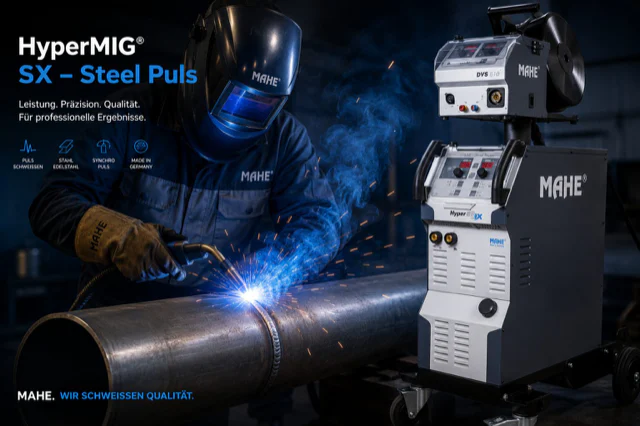
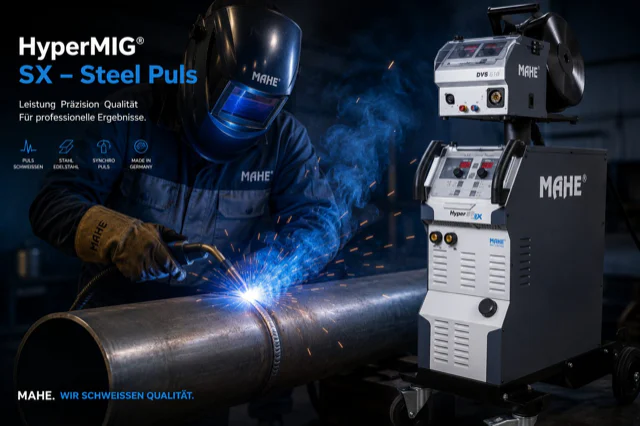
Punkte aus "Leistung. Praezision. Qualitaet." entfernt
Der Inhaber findet die Punkte zwischen den drei Woertern unschoen. Sie
sind Teil des Bildes, nicht des HTML, also mussten sie aus der Vorlage
heraus.

Entfernt wurden genau drei Zeichen, alle auf der Grundlinie bei y 255
bis 257: x 133-139, 238-244 und 332-337. Die Punkte ueber den beiden i
und die Umlautpunkte ueber dem ae liegen bei y 241 bis 243 und sind
unberuehrt geblieben - deshalb wurden die Kaesten nicht geschaetzt,
sondern ueber die zusammenhaengenden hellen Flaechen der Zeile
bestimmt und vorher geprueft, dass ringsum nur Hintergrund liegt.

Gefuellt wurde mit einem Streifen desselben Hintergrunds acht Zeilen
tiefer, damit Koernung und Farbverlauf stimmen; der hellste Wert in
den drei Kaesten faellt von 253, 252 und 248 auf 14, 25 und 16. Die
Luecke betraegt jetzt an beiden Stellen 14 bzw. 15 px gegenueber 7 bis
8 px zwischen gewoehnlichen Woertern - die Zeile liest sich damit als
bewusst gesperrte Aufzaehlung und nicht als vergessene Zeichensetzung.

Dazu eine Sache am Werkzeug: hero.py kodierte den JPEG-Rueckfall mit
sips und formatOptions 88. Aus derselben Vorlage wurden so 364 kB. Mit
Pillow bei Qualitaet 82, progressiv und optimiert sind es 209 kB - und
das Ergebnis liegt naeher am Original statt weiter weg, PSNR 52.7
gegenueber 49.8 dB. Die Vorlage kommt selbst aus einem JPEG, und
Qualitaet 82 trifft deren Quantisierungstabelle fast genau.

Die verlustfreie Vorlage liegt unter
~/Documents/VES-TECH Backup/5-bilder/hero-HyperMIG-ohne-Punkte.png,
[…]

diff --git a/fr/index.html b/fr/index.html
@@ -46,7 +46,7 @@
 <link rel="preload" as="font" type="font/woff2" crossorigin href="/assets/fonts/barlow-condensed-700-latin.woff2">
 <link rel="stylesheet" href="/assets/fonts/fonts.css?v=c280491e">
 <link rel="stylesheet" href="/assets/css/site.css?v=721b5a12">
-<link rel="preload" as="image" href="/assets/img/hero-1536.webp?v=4fab8153" imagesrcset="/assets/img/hero-640.webp?v=7de5f3d2 640w, /assets/img/hero-1000.webp?v=fa3d0fe1 1000w, /assets/img/hero-1536.webp?v=4fab8153 1536w" imagesizes="100vw" fetchpriority="high">
+<link rel="preload" as="image" href="/assets/img/hero-1536.webp?v=39bf6408" imagesrcset="/assets/img/hero-640.webp?v=83ac61d8 640w, /assets/img/hero-1000.webp?v=69524643 1000w, /assets/img/hero-1536.webp?v=39bf6408 1536w" imagesizes="100vw" fetchpriority="high">
 <script type="application/ld+json">{"@context":"https://schema.org","@graph":[{"@type":["Organization","LocalBusiness","Store"],"@id":"https://www.ves-tech.ch/#organization","name":"VES-TECH Swiss","legalName":"VES-TECH Swiss","description":"VES-TECH Swiss est le revendeur suisse de la technique de soudage et de découpe de MAHE GmbH : postes à souder MIG/MAG, TIG et électrode, installations de découpe plasma, tables de découpe CNC et appareils de nettoyage et de marquage électrolytiques. Avec conseil, mise en service, diagnostic, réparation, calibrage et automation du soudage. Atelier et réception des marchandises à Herisau AR chez l'entreprise partenaire Schweisstechnik Scherrer AG; siège et adresse de facturation à Bronschhofen SG. Livraison en Suisse et au Liechtenstein.","url":"https://www.ves-tech.ch/","logo":{"@type":"ImageObject","url":"https://www.ves-tech.ch/assets/icons/logo.png","width":512,"height":512},"image":"https://www.ves-tech.ch/assets/img/hero.jpg","telephone":"+41 76 710 91 39","email":"vestechswiss@gmail.com","address":{"@type":"PostalAddress","streetAddress":"St. Gallerstrasse 49","postalCode":"9100","addressLocality":"Herisau","addressRegion":"AR","addressCountry":"CH"},"geo":{"@type":"GeoCoordinates","latitude":47.3861,"longitude":9.2792},"areaServed":[{"@type":"Country","name":"Schweiz"},{"@type":"Country","name":"Liechtenstein"}],"knowsLanguage":["de","cs","en"],"currenciesAccepted":"CHF","hasMap":"https://www.google.com/maps/search/?api=1&query=St.+Gallerstrasse+49,+9100+Herisau","brand":{"@type":"Brand","name":"MAHE","url":"https://mahe-online.de/"},"founder":{"@type":"Person","name":"Martin Veselovsky"},"slogan":"Offizieller Schweizer Partner für das MAHE-Geräteprogramm.","knowsAbout":["MIG/MAG-Schweissen","WIG/TIG-Schweissen","MMA-Elektrodenschweissen","Plasmaschneiden","Elektrolytische Schweissnahtreinigung","Schweissautomation","EN 1090","MAHE Schweissgeräte"],"contactPoint":[{"@type":"ContactPoint","contactType":"sales","telephone":"+41 76 710 91 39","email":"vestechswiss@gmail.com","availableLanguage":["German","Czech","English"],"areaServed":["CH","LI"],"hoursAvailable":[{"@type":"OpeningHoursSpecification","dayOfWeek":["Monday","Tuesday","Wednesday","Thursday"],"opens":"07:30","closes":"17:00"},{"@type":"OpeningHoursSpecification","dayOfWeek":["Friday"],"opens":"07:30","closes":"11:30"}]}]},{"@type":"WebSite","@id":"https://www.ves-tech.ch/#website","url":"https://www.ves-tech.ch/","name":"VES-TECH Swiss","description":"Postes de soudage MAHE, découpeurs plasma et systèmes de nettoyage électrolytique en Suisse. Conseil, service et automation depuis Herisau AR. Prix sur demande.","inLanguage":["de-CH","fr-CH","it-CH"],"publisher":{"@id":"https://www.ves-tech.ch/#organization"},"potentialAction":{"@type":"SearchAction","target":{"@type":"EntryPoint","urlTemplate":"https://www.ves-tech.ch/fr/recherche/?q={search_term_string}"},"query-input":"required name=search_term_string"}},{"@type":["WebPage","CollectionPage"],"@id":"https://www.ves-tech.ch/fr/#webpage","url":"https://www.ves-tech.ch/fr/","name":"VES-TECH Swiss · Postes de soudage MAHE, plasma & nettoyage","description":"Postes de soudage MAHE, découpeurs plasma et systèmes de nettoyage électrolytique en Suisse. Conseil, service et automation depuis Herisau AR. Prix sur demande.","inLanguage":"fr-CH","isPartOf":{"@id":"https://www.ves-tech.ch/#website"},"about":{"@id":"https://www.ves-tech.ch/#organization"},"primaryImageOfPage":{"@type":"ImageObject","url":"https://www.ves-tech.ch/assets/img/hero.jpg"}},{"@type":"FAQPage","@id":"https://www.ves-tech.ch/fr/#faq","inLanguage":"fr-CH","mainEntity":[{"@type":"Question","name":"Combien coûte un poste de soudage MAHE chez VES-TECH Swiss ?","acceptedAnswer":{"@type":"Answer","text":"Tous les appareils MAHE sont proposés au prix sur demande chez VES-TECH Swiss. La raison : chaque installation est configurée selon le matériau, l'épaisseur de tôle, le refroidissement (air ou eau), la longueur de torche et les accessoires. Vous recevez en règle générale une offre écrite dans un jour ouvrable, service suisse et gestion de la garantie inclus."}},{"@type":"Question","name":"Quel procédé de soudage pour l'aluminium ?","acceptedAnswer":{"@type":"Answer","text":"Deux voies conviennent pour l'aluminium : le TIG AC/DC (par ex. MAHE HyperTIG AX ou Omega AX) pour les tôles fines et les cordons visibles, et le MIG/MAG avec pulsation ou double pulsation (par ex. MAHE HyperMIG X) pour un taux de dépôt élevé à partir d'environ 2 mm. Le TIG DC pur ne convient pas à l'aluminium, car la couche d'oxyde nécessite l'effet décapant du courant alternatif."}},{"@type":"Question","name":"Quelle est la différence entre TIG DC et TIG AC/DC ?","acceptedAnswer":{"@type":"Answer","text":"Le TIG DC soude en courant continu et convient à l'acier, l'acier inox, le cuivre et le titane. Le TIG AC/DC travaille en plus en courant alternatif et brise ainsi la couche d'oxyde d'aluminium. C'est la seule façon de souder proprement l'aluminium en TIG. Les appareils AC/DC sont donc le choix universel, les DC le choix économique."}},{"@type":"Question","name":"Comment fonctionne le nettoyage électrolytique des soudures ?","acceptedAnswer":{"@type":"Answer","text":"Un MAHE Cleaner conduit le courant dans le cordon via un pinceau carbone imbibé d'électrolyte. Les colorations et la couche d'oxyde sur l'acier inox sont éliminées par voie électrochimique et la couche passive se reconstitue. Selon l'électrolyte, on nettoie (R1, RP1), polit (P1), neutralise (N1) ou marque durablement le métal (M1). C'est plus rapide et plus doux que le décapage, sans bain d'acide."}},{"@type":"Question","name":"Quelle épaisseur coupe un découpeur plasma MAHE Theta ?","acceptedAnswer":{"@type":"Answer","text":"La série Theta couvre environ 15 mm à 80 mm de coupe de séparation : Theta 40 pour l'atelier léger sur réseau 230 V, Theta 60 et Theta 120 pour l'usage industriel avec technologie HSC, et Theta 180 comme modèle le plus puissant. Pour les installations CNC, il existe les Theta 60 AUT et Theta 120 AUT avec interface d'automation."}},{"@type":"Question","name":"VES-TECH Swiss propose-t-il service et réparation en Suisse ?","acceptedAnswer":{"@type":"Answer","text":"Oui. L'atelier à Herisau AR, chez notre entreprise partenaire Schweisstechnik Scherrer AG, assure le diagnostic, la réparation, le calibrage et l'automation pour la gamme MAHE. Vous parlez directement au technicien qui travaille aussi sur l'électronique, joignable au +41 76 710 91 39."}}]}]}</script>
 </head>
 <body>
@@ -107,7 +107,7 @@
 </aside>
 <main id="main">
 
-<section class="hero" data-hero aria-roledescription="carousel" aria-label="VES-TECH Swiss"><div class="hero-slide active" role="group" aria-roledescription="slide" aria-label="Image 1 sur 2"><div class="hero-inner"><img class="hero-photo" src="/assets/img/hero-1536.webp?v=4fab8153" srcset="/assets/img/hero-640.webp?v=7de5f3d2 640w, /assets/img/hero-1000.webp?v=fa3d0fe1 1000w, /assets/img/hero-1536.webp?v=4fab8153 1536w" sizes="100vw" width="1536" height="1024" fetchpriority="high" decoding="async" alt="MAHE HyperMIG SX: Schweissanlagen bei VES-TECH Swiss" data-fb="/assets/img/hero.jpg"></div></div><div class="hero-slide light" role="group" aria-roledescription="slide" aria-label="Image 2 sur 2"><div class="hero-inner"><img class="hero-photo" src="/assets/img/hero-mpt-1536.webp?v=80cf9e4e" srcset="/assets/img/hero-mpt-640.webp?v=1ca108ae 640w, /assets/img/hero-mpt-1000.webp?v=b12000d8 1000w, /assets/img/hero-mpt-1536.webp?v=80cf9e4e 1536w" sizes="100vw" width="1672" height="941" loading="eager" fetchpriority="low" decoding="async" alt="MAHE MPT: CNC-Plasmaschneidtisch mit Bedienkonsole" data-fb="/assets/img/hero-mpt.jpg"><div class="hero-txt"><span class="hk">Nouveau dans la gamme</span><h2>MAHE MPT · table de découpe plasma CNC</h2><p>3000 × 1500 mm ou 2500 × 1250 mm · Theta 060 / 120 / 180 HSC · MyPlasm CNC</p><a class="btn pri" href="/fr/produits/decoupe-plasma/mpt-3001/">Voir la table de découpe</a></div></div></div><div class="hero-dots" role="tablist" aria-label="Autres images"><button class="hdot active" type="button" role="tab" aria-selected="true" data-i="0" aria-label="Image 1 sur 2"></button><button class="hdot" type="button" role="tab" aria-selected="false" data-i="1" aria-label="Image 2 sur 2"></button></div></section>
+<section class="hero" data-hero aria-roledescription="carousel" aria-label="VES-TECH Swiss"><div class="hero-slide active" role="group" aria-roledescription="slide" aria-label="Image 1 sur 2"><div class="hero-inner"><img class="hero-photo" src="/assets/img/hero-1536.webp?v=39bf6408" srcset="/assets/img/hero-640.webp?v=83ac61d8 640w, /assets/img/hero-1000.webp?v=69524643 1000w, /assets/img/hero-1536.webp?v=39bf6408 1536w" sizes="100vw" width="1536" height="1024" fetchpriority="high" decoding="async" alt="MAHE HyperMIG SX: Schweissanlagen bei VES-TECH Swiss" data-fb="/assets/img/hero.jpg"></div></div><div class="hero-slide light" role="group" aria-roledescription="slide" aria-label="Image 2 sur 2"><div class="hero-inner"><img class="hero-photo" src="/assets/img/hero-mpt-1536.webp?v=80cf9e4e" srcset="/assets/img/hero-mpt-640.webp?v=1ca108ae 640w, /assets/img/hero-mpt-1000.webp?v=b12000d8 1000w, /assets/img/hero-mpt-1536.webp?v=80cf9e4e 1536w" sizes="100vw" width="1672" height="941" loading="eager" fetchpriority="low" decoding="async" alt="MAHE MPT: CNC-Plasmaschneidtisch mit Bedienkonsole" data-fb="/assets/img/hero-mpt.jpg"><div class="hero-txt"><span class="hk">Nouveau dans la gamme</span><h2>MAHE MPT · table de découpe plasma CNC</h2><p>3000 × 1500 mm ou 2500 × 1250 mm · Theta 060 / 120 / 180 HSC · MyPlasm CNC</p><a class="btn pri" href="/fr/produits/decoupe-plasma/mpt-3001/">Voir la table de découpe</a></div></div></div><div class="hero-dots" role="tablist" aria-label="Autres images"><button class="hdot active" type="button" role="tab" aria-selected="true" data-i="0" aria-label="Image 1 sur 2"></button><button class="hdot" type="button" role="tab" aria-selected="false" data-i="1" aria-label="Image 2 sur 2"></button></div></section>
 <div class="hero-cta"><div class="wrap"><div class="cta-row">
   <a class="btn pri" href="/fr/contact/">Demander un technicien →</a>
   <a class="btn ghost light" href="/fr/produits/">Voir les systèmes MAHE</a>

diff --git a/it/index.html b/it/index.html
@@ -46,7 +46,7 @@
 <link rel="preload" as="font" type="font/woff2" crossorigin href="/assets/fonts/barlow-condensed-700-latin.woff2">
 <link rel="stylesheet" href="/assets/fonts/fonts.css?v=c280491e">
 <link rel="stylesheet" href="/assets/css/site.css?v=721b5a12">
-<link rel="preload" as="image" href="/assets/img/hero-1536.webp?v=4fab8153" imagesrcset="/assets/img/hero-640.webp?v=7de5f3d2 640w, /assets/img/hero-1000.webp?v=fa3d0fe1 1000w, /assets/img/hero-1536.webp?v=4fab8153 1536w" imagesizes="100vw" fetchpriority="high">
+<link rel="preload" as="image" href="/assets/img/hero-1536.webp?v=39bf6408" imagesrcset="/assets/img/hero-640.webp?v=83ac61d8 640w, /assets/img/hero-1000.webp?v=69524643 1000w, /assets/img/hero-1536.webp?v=39bf6408 1536w" imagesizes="100vw" fetchpriority="high">
 <script type="application/ld+json">{"@context":"https://schema.org","@graph":[{"@type":["Organization","LocalBusiness","Store"],"@id":"https://www.ves-tech.ch/#organization","name":"VES-TECH Swiss","legalName":"VES-TECH Swiss","description":"VES-TECH Swiss è il rivenditore svizzero della tecnica di saldatura e di taglio di MAHE GmbH: saldatrici MIG/MAG, TIG ed elettrodo, impianti di taglio al plasma, tavoli di taglio CNC e apparecchi elettrolitici di pulitura e marcatura. Con consulenza, messa in servizio, diagnosi, riparazione, calibrazione e automazione della saldatura. Officina e accettazione merci a Herisau AR presso l'azienda partner Schweisstechnik Scherrer AG; sede e indirizzo di fatturazione a Bronschhofen SG. Consegna in Svizzera e nel Liechtenstein.","url":"https://www.ves-tech.ch/","logo":{"@type":"ImageObject","url":"https://www.ves-tech.ch/assets/icons/logo.png","width":512,"height":512},"image":"https://www.ves-tech.ch/assets/img/hero.jpg","telephone":"+41 76 710 91 39","email":"vestechswiss@gmail.com","address":{"@type":"PostalAddress","streetAddress":"St. Gallerstrasse 49","postalCode":"9100","addressLocality":"Herisau","addressRegion":"AR","addressCountry":"CH"},"geo":{"@type":"GeoCoordinates","latitude":47.3861,"longitude":9.2792},"areaServed":[{"@type":"Country","name":"Schweiz"},{"@type":"Country","name":"Liechtenstein"}],"knowsLanguage":["de","cs","en"],"currenciesAccepted":"CHF","hasMap":"https://www.google.com/maps/search/?api=1&query=St.+Gallerstrasse+49,+9100+Herisau","brand":{"@type":"Brand","name":"MAHE","url":"https://mahe-online.de/"},"founder":{"@type":"Person","name":"Martin Veselovsky"},"slogan":"Offizieller Schweizer Partner für das MAHE-Geräteprogramm.","knowsAbout":["MIG/MAG-Schweissen","WIG/TIG-Schweissen","MMA-Elektrodenschweissen","Plasmaschneiden","Elektrolytische Schweissnahtreinigung","Schweissautomation","EN 1090","MAHE Schweissgeräte"],"contactPoint":[{"@type":"ContactPoint","contactType":"sales","telephone":"+41 76 710 91 39","email":"vestechswiss@gmail.com","availableLanguage":["German","Czech","English"],"areaServed":["CH","LI"],"hoursAvailable":[{"@type":"OpeningHoursSpecification","dayOfWeek":["Monday","Tuesday","Wednesday","Thursday"],"opens":"07:30","closes":"17:00"},{"@type":"OpeningHoursSpecification","dayOfWeek":["Friday"],"opens":"07:30","closes":"11:30"}]}]},{"@type":"WebSite","@id":"https://www.ves-tech.ch/#website","url":"https://www.ves-tech.ch/","name":"VES-TECH Swiss","description":"Saldatrici MAHE, inverter per taglio al plasma e pulizia elettrolitica in Svizzera. Consulenza, assistenza e automazione da Herisau AR. Prezzo su richiesta.","inLanguage":["de-CH","fr-CH","it-CH"],"publisher":{"@id":"https://www.ves-tech.ch/#organization"},"potentialAction":{"@type":"SearchAction","target":{"@type":"EntryPoint","urlTemplate":"https://www.ves-tech.ch/it/ricerca/?q={search_term_string}"},"query-input":"required name=search_term_string"}},{"@type":["WebPage","CollectionPage"],"@id":"https://www.ves-tech.ch/it/#webpage","url":"https://www.ves-tech.ch/it/","name":"VES-TECH Swiss · Saldatrici MAHE, plasma & pulizia","description":"Saldatrici MAHE, inverter per taglio al plasma e pulizia elettrolitica in Svizzera. Consulenza, assistenza e automazione da Herisau AR. Prezzo su richiesta.","inLanguage":"it-CH","isPartOf":{"@id":"https://www.ves-tech.ch/#website"},"about":{"@id":"https://www.ves-tech.ch/#organization"},"primaryImageOfPage":{"@type":"ImageObject","url":"https://www.ves-tech.ch/assets/img/hero.jpg"}},{"@type":"FAQPage","@id":"https://www.ves-tech.ch/it/#faq","inLanguage":"it-CH","mainEntity":[{"@type":"Question","name":"Quanto costa una saldatrice MAHE da VES-TECH Swiss?","acceptedAnswer":{"@type":"Answer","text":"Tutti gli apparecchi MAHE sono offerti da VES-TECH Swiss al prezzo su richiesta. Il motivo: ogni impianto viene configurato in base a materiale, spessore della lamiera, raffreddamento (aria o acqua), lunghezza della torcia e accessori. Di norma ricevete un'offerta scritta entro un giorno lavorativo, inclusa assistenza svizzera e gestione della garanzia."}},{"@type":"Question","name":"Quale processo di saldatura serve per l'alluminio?","acceptedAnswer":{"@type":"Answer","text":"Per l'alluminio ci sono due vie: TIG AC/DC (ad es. MAHE HyperTIG AX o Omega AX) per lamiere sottili e cordoni a vista, e MIG/MAG con impulso o doppio impulso (ad es. MAHE HyperMIG X) per una resa maggiore a partire da circa 2 mm. Il TIG DC puro non è adatto all'alluminio, perché lo strato di ossido richiede l'effetto decapante della corrente alternata."}},{"@type":"Question","name":"Qual è la differenza tra TIG DC e TIG AC/DC?","acceptedAnswer":{"@type":"Answer","text":"Il TIG DC salda in corrente continua ed è adatto ad acciaio, acciaio inox, rame e titanio. Il TIG AC/DC lavora anche in corrente alternata e rompe così lo strato di ossido dell'alluminio. Solo così l'alluminio si salda in TIG in modo pulito. Gli apparecchi AC/DC sono quindi la scelta universale, quelli DC la scelta più economica."}},{"@type":"Question","name":"Come funziona la pulizia elettrolitica delle saldature?","acceptedAnswer":{"@type":"Answer","text":"Un MAHE Cleaner conduce corrente nel cordone tramite un pennello di carbonio imbevuto di elettrolita. Le colorazioni da calore e lo strato di ossido sull'acciaio inox vengono rimossi per via elettrochimica e lo strato passivo si ricostituisce. A seconda dell'elettrolita si pulisce (R1, RP1), si lucida (P1), si neutralizza (N1) o si marca il metallo in modo permanente (M1). È più rapido e delicato del decapaggio, senza bagno acido."}},{"@type":"Question","name":"Quale spessore taglia un inverter plasma MAHE Theta?","acceptedAnswer":{"@type":"Answer","text":"La serie Theta copre da circa 15 mm a 80 mm di taglio di separazione: Theta 40 per l'officina leggera su rete 230 V, Theta 60 e Theta 120 per l'impiego industriale con tecnologia HSC e Theta 180 come modello più potente. Per impianti CNC esistono Theta 60 AUT e Theta 120 AUT con interfaccia di automazione."}},{"@type":"Question","name":"VES-TECH Swiss offre assistenza e riparazione in Svizzera?","acceptedAnswer":{"@type":"Answer","text":"Sì. L'officina a Herisau AR, presso la nostra azienda partner Schweisstechnik Scherrer AG, si occupa di diagnosi, riparazione, calibrazione e automazione per la gamma MAHE. Parlate direttamente con il tecnico che lavora anche sull'elettronica, raggiungibile al +41 76 710 91 39."}}]}]}</script>
 </head>
 <body>
@@ -107,7 +107,7 @@
 </aside>
 <main id="main">
 
-<section class="hero" data-hero aria-roledescription="carousel" aria-label="VES-TECH Swiss"><div class="hero-slide active" role="group" aria-roledescription="slide" aria-label="Immagine 1 di 2"><div class="hero-inner"><img class="hero-photo" src="/assets/img/hero-1536.webp?v=4fab8153" srcset="/assets/img/hero-640.webp?v=7de5f3d2 640w, /assets/img/hero-1000.webp?v=fa3d0fe1 1000w, /assets/img/hero-1536.webp?v=4fab8153 1536w" sizes="100vw" width="1536" height="1024" fetchpriority="high" decoding="async" alt="MAHE HyperMIG SX: Schweissanlagen bei VES-TECH Swiss" data-fb="/assets/img/hero.jpg"></div></div><div class="hero-slide light" role="group" aria-roledescription="slide" aria-label="Immagine 2 di 2"><div class="hero-inner"><img class="hero-photo" src="/assets/img/hero-mpt-1536.webp?v=80cf9e4e" srcset="/assets/img/hero-mpt-640.webp?v=1ca108ae 640w, /assets/img/hero-mpt-1000.webp?v=b12000d8 1000w, /assets/img/hero-mpt-1536.webp?v=80cf9e4e 1536w" sizes="100vw" width="1672" height="941" loading="eager" fetchpriority="low" decoding="async" alt="MAHE MPT: CNC-Plasmaschneidtisch mit Bedienkonsole" data-fb="/assets/img/hero-mpt.jpg"><div class="hero-txt"><span class="hk">Nuovo in gamma</span><h2>MAHE MPT · tavolo di taglio al plasma CNC</h2><p>3000 × 1500 mm o 2500 × 1250 mm · Theta 060 / 120 / 180 HSC · MyPlasm CNC</p><a class="btn pri" href="/it/prodotti/taglio-plasma/mpt-3001/">Vai al tavolo di taglio</a></div></div></div><div class="hero-dots" role="tablist" aria-label="Altre immagini"><button class="hdot active" type="button" role="tab" aria-selected="true" data-i="0" aria-label="Immagine 1 di 2"></button><button class="hdot" type="button" role="tab" aria-selected="false" data-i="1" aria-label="Immagine 2 di 2"></button></div></section>
+<section class="hero" data-hero aria-roledescription="carousel" aria-label="VES-TECH Swiss"><div class="hero-slide active" role="group" aria-roledescription="slide" aria-label="Immagine 1 di 2"><div class="hero-inner"><img class="hero-photo" src="/assets/img/hero-1536.webp?v=39bf6408" srcset="/assets/img/hero-640.webp?v=83ac61d8 640w, /assets/img/hero-1000.webp?v=69524643 1000w, /assets/img/hero-1536.webp?v=39bf6408 1536w" sizes="100vw" width="1536" height="1024" fetchpriority="high" decoding="async" alt="MAHE HyperMIG SX: Schweissanlagen bei VES-TECH Swiss" data-fb="/assets/img/hero.jpg"></div></div><div class="hero-slide light" role="group" aria-roledescription="slide" aria-label="Immagine 2 di 2"><div class="hero-inner"><img class="hero-photo" src="/assets/img/hero-mpt-1536.webp?v=80cf9e4e" srcset="/assets/img/hero-mpt-640.webp?v=1ca108ae 640w, /assets/img/hero-mpt-1000.webp?v=b12000d8 1000w, /assets/img/hero-mpt-1536.webp?v=80cf9e4e 1536w" sizes="100vw" width="1672" height="941" loading="eager" fetchpriority="low" decoding="async" alt="MAHE MPT: CNC-Plasmaschneidtisch mit Bedienkonsole" data-fb="/assets/img/hero-mpt.jpg"><div class="hero-txt"><span class="hk">Nuovo in gamma</span><h2>MAHE MPT · tavolo di taglio al plasma CNC</h2><p>3000 × 1500 mm o 2500 × 1250 mm · Theta 060 / 120 / 180 HSC · MyPlasm CNC</p><a class="btn pri" href="/it/prodotti/taglio-plasma/mpt-3001/">Vai al tavolo di taglio</a></div></div></div><div class="hero-dots" role="tablist" aria-label="Altre immagini"><button class="hdot active" type="button" role="tab" aria-selected="true" data-i="0" aria-label="Immagine 1 di 2"></button><button class="hdot" type="button" role="tab" aria-selected="false" data-i="1" aria-label="Immagine 2 di 2"></button></div></section>
 <div class="hero-cta"><div class="wrap"><div class="cta-row">
   <a class="btn pri" href="/it/contatto/">Richiedi un tecnico →</a>
   <a class="btn ghost light" href="/it/prodotti/">Vedi i sistemi MAHE</a>

diff --git a/index.html b/index.html
@@ -46,7 +46,7 @@
 <link rel="preload" as="font" type="font/woff2" crossorigin href="/assets/fonts/barlow-condensed-700-latin.woff2">
 <link rel="stylesheet" href="/assets/fonts/fonts.css?v=c280491e">
 <link rel="stylesheet" href="/assets/css/site.css?v=721b5a12">
-<link rel="preload" as="image" href="/assets/img/hero-1536.webp?v=4fab8153" imagesrcset="/assets/img/hero-640.webp?v=7de5f3d2 640w, /assets/img/hero-1000.webp?v=fa3d0fe1 1000w, /assets/img/hero-1536.webp?v=4fab8153 1536w" imagesizes="100vw" fetchpriority="high">
+<link rel="preload" as="image" href="/assets/img/hero-1536.webp?v=39bf6408" imagesrcset="/assets/img/hero-640.webp?v=83ac61d8 640w, /assets/img/hero-1000.webp?v=69524643 1000w, /assets/img/hero-1536.webp?v=39bf6408 1536w" imagesizes="100vw" fetchpriority="high">
 <script type="application/ld+json">{"@context":"https://schema.org","@graph":[{"@type":["Organization","LocalBusiness","Store"],"@id":"https://www.ves-tech.ch/#organization","name":"VES-TECH Swiss","legalName":"VES-TECH Swiss","description":"VES-TECH Swiss ist der Schweizer Händler für die Schweisstechnik und die Schneidtechnik der MAHE GmbH: Schweissgeräte für MIG/MAG, WIG/TIG und Elektrode, Plasmaschneidanlagen, CNC-Schneidtische und elektrolytische Geräte zum Reinigen und Signieren. Dazu Beratung, Inbetriebnahme, Diagnose, Reparatur, Kalibrierung und Schweissautomation. Werkstatt und Warenannahme in Herisau AR bei der Partnerfirma Schweisstechnik Scherrer AG; Sitz und Rechnungsadresse in Bronschhofen SG. Geliefert wird in die Schweiz und nach Liechtenstein.","url":"https://www.ves-tech.ch/","logo":{"@type":"ImageObject","url":"https://www.ves-tech.ch/assets/icons/logo.png","width":512,"height":512},"image":"https://www.ves-tech.ch/assets/img/hero.jpg","telephone":"+41 76 710 91 39","email":"vestechswiss@gmail.com","address":{"@type":"PostalAddress","streetAddress":"St. Gallerstrasse 49","postalCode":"9100","addressLocality":"Herisau","addressRegion":"AR","addressCountry":"CH"},"geo":{"@type":"GeoCoordinates","latitude":47.3861,"longitude":9.2792},"areaServed":[{"@type":"Country","name":"Schweiz"},{"@type":"Country","name":"Liechtenstein"}],"knowsLanguage":["de","cs","en"],"currenciesAccepted":"CHF","hasMap":"https://www.google.com/maps/search/?api=1&query=St.+Gallerstrasse+49,+9100+Herisau","brand":{"@type":"Brand","name":"MAHE","url":"https://mahe-online.de/"},"founder":{"@type":"Person","name":"Martin Veselovsky"},"slogan":"Offizieller Schweizer Partner für das MAHE-Geräteprogramm.","knowsAbout":["MIG/MAG-Schweissen","WIG/TIG-Schweissen","MMA-Elektrodenschweissen","Plasmaschneiden","Elektrolytische Schweissnahtreinigung","Schweissautomation","EN 1090","MAHE Schweissgeräte"],"contactPoint":[{"@type":"ContactPoint","contactType":"sales","telephone":"+41 76 710 91 39","email":"vestechswiss@gmail.com","availableLanguage":["German","Czech","English"],"areaServed":["CH","LI"],"hoursAvailable":[{"@type":"OpeningHoursSpecification","dayOfWeek":["Monday","Tuesday","Wednesday","Thursday"],"opens":"07:30","closes":"17:00"},{"@type":"OpeningHoursSpecification","dayOfWeek":["Friday"],"opens":"07:30","closes":"11:30"}]}]},{"@type":"WebSite","@id":"https://www.ves-tech.ch/#website","url":"https://www.ves-tech.ch/","name":"VES-TECH Swiss","description":"MAHE Schweissgeräte, Plasmaschneider und elektrolytische Reinigungssysteme in der Schweiz. Beratung, Service und Automation aus Herisau AR. Preis auf Anfrage.","inLanguage":["de-CH","fr-CH","it-CH"],"publisher":{"@id":"https://www.ves-tech.ch/#organization"},"potentialAction":{"@type":"SearchAction","target":{"@type":"EntryPoint","urlTemplate":"https://www.ves-tech.ch/suche/?q={search_term_string}"},"query-input":"required name=search_term_string"}},{"@type":["WebPage","CollectionPage"],"@id":"https://www.ves-tech.ch/#webpage","url":"https://www.ves-tech.ch/","name":"VES-TECH Swiss · MAHE Schweissgeräte, Plasmaschneiden & Reinigung","description":"MAHE Schweissgeräte, Plasmaschneider und elektrolytische Reinigungssysteme in der Schweiz. Beratung, Service und Automation aus Herisau AR. Preis auf Anfrage.","inLanguage":"de-CH","isPartOf":{"@id":"https://www.ves-tech.ch/#website"},"about":{"@id":"https://www.ves-tech.ch/#organization"},"primaryImageOfPage":{"@type":"ImageObject","url":"https://www.ves-tech.ch/assets/img/hero.jpg"}},{"@type":"FAQPage","@id":"https://www.ves-tech.ch/#faq","inLanguage":"de-CH","mainEntity":[{"@type":"Question","name":"Was kostet ein MAHE Schweissgerät bei VES-TECH Swiss?","acceptedAnswer":{"@type":"Answer","text":"Alle MAHE-Geräte werden bei VES-TECH Swiss zum Preis auf Anfrage angeboten. Der Grund: Jede Anlage wird nach Werkstoff, Blechdicke, Kühlung (mit Luft oder mit Wasser), Brennerlänge und Zubehör konfiguriert. Sie erhalten in der Regel innerhalb eines Arbeitstages ein schriftliches Angebot inklusive Schweizer Service und Garantieabwicklung."}},{"@type":"Question","name":"Welches Schweissverfahren brauche ich für Aluminium?","acceptedAnswer":{"@type":"Answer","text":"Für Aluminium eignen sich zwei Wege: WIG AC/DC (z. B. MAHE HyperTIG AX oder Omega AX) für dünne Bleche und sichtbare Nähte, sowie MIG/MAG mit Puls oder Doppelpuls (z. B. MAHE HyperMIG X) für höhere Abschmelzleistung ab etwa 2 mm Blechdicke. Reines WIG DC funktioniert bei Aluminium nicht, weil die Oxidschicht die Wechselstrom-Reinigungswirkung braucht."}},{"@type":"Question","name":"Was ist der Unterschied zwischen WIG DC und WIG AC/DC?","acceptedAnswer":{"@type":"Answer","text":"WIG DC schweisst mit Gleichstrom und eignet sich für Stahl, Chromstahl (INOX), Kupfer und Titan. WIG AC/DC kann zusätzlich mit Wechselstrom arbeiten und bricht damit die Aluminiumoxidschicht auf. Nur so lässt sich Aluminium sauber WIG-schweissen. AC/DC-Geräte sind also die universellere, DC-Geräte die günstigere Wahl."}},{"@type":"Question","name":"Wie funktioniert die elektrolytische Schweissnahtreinigung?","acceptedAnswer":{"@type":"Answer","text":"Ein MAHE Cleaner leitet über einen mit Elektrolyt getränkten Karbon-Pinsel Strom in die Schweissnaht. Die Anlauffarben und die Oxidschicht auf Chromstahl werden elektrochemisch entfernt, die Passivschicht baut sich wieder auf. Je nach Elektrolyt wird gereinigt (R1, RP1), poliert (P1), neutralisiert (N1) oder das Metall dauerhaft signiert (M1). Das ist schneller und schonender als Beizen und ohne Säurebad."}},{"@type":"Question","name":"Welche Blechdicke schneidet ein MAHE Theta Plasmaschneider?","acceptedAnswer":{"@type":"Answer","text":"Die Theta-Serie deckt den Bereich von etwa 15 mm bis 80 mm Trennschnitt ab: Theta 40 für die leichte Werkstatt am 230-V-Netz, Theta 60 und Theta 120 für den industriellen Einsatz mit HSC-Technologie und Theta 180 als stärkstes Modell. Für CNC-Anlagen gibt es Theta 60 AUT und Theta 120 AUT mit Automations-Schnittstelle."}},{"@type":"Question","name":"Bietet VES-TECH Swiss Service und Reparatur in der Schweiz an?","acceptedAnswer":{"@type":"Answer","text":"Ja. Die Werkstatt in Herisau AR, bei unserer Partnerfirma Schweisstechnik Scherrer AG, übernimmt Diagnose, Reparatur, Kalibrierung und Automation für das MAHE-Geräteprogramm. Sie sprechen direkt mit dem Techniker, der auch an der Elektronik arbeitet, erreichbar unter +41 76 710 91 39."}}]}]}</script>
 </head>
 <body>
@@ -107,7 +107,7 @@
 </aside>
 <main id="main">
 
-<section class="hero" data-hero aria-roledescription="carousel" aria-label="VES-TECH Swiss"><div class="hero-slide active" role="group" aria-roledescription="slide" aria-label="Bild 1 von 2"><div class="hero-inner"><img class="hero-photo" src="/assets/img/hero-1536.webp?v=4fab8153" srcset="/assets/img/hero-640.webp?v=7de5f3d2 640w, /assets/img/hero-1000.webp?v=fa3d0fe1 1000w, /assets/img/hero-1536.webp?v=4fab8153 1536w" sizes="100vw" width="1536" height="1024" fetchpriority="high" decoding="async" alt="MAHE HyperMIG SX: Schweissanlagen bei VES-TECH Swiss" data-fb="/assets/img/hero.jpg"></div></div><div class="hero-slide light" role="group" aria-roledescription="slide" aria-label="Bild 2 von 2"><div class="hero-inner"><img class="hero-photo" src="/assets/img/hero-mpt-1536.webp?v=80cf9e4e" srcset="/assets/img/hero-mpt-640.webp?v=1ca108ae 640w, /assets/img/hero-mpt-1000.webp?v=b12000d8 1000w, /assets/img/hero-mpt-1536.webp?v=80cf9e4e 1536w" sizes="100vw" width="1672" height="941" loading="eager" fetchpriority="low" decoding="async" alt="MAHE MPT: CNC-Plasmaschneidtisch mit Bedienkonsole" data-fb="/assets/img/hero-mpt.jpg"><div class="hero-txt"><span class="hk">Neu im Programm</span><h2>MAHE MPT · CNC-Plasmaschneidtisch</h2><p>3000 × 1500 mm oder 2500 × 1250 mm · Theta 060 / 120 / 180 HSC · MyPlasm CNC</p><a class="btn pri" href="/produkte/plasmaschneiden/mpt-3001/">Zum Schneidtisch</a></div></div></div><div class="hero-dots" role="tablist" aria-label="Weitere Bilder"><button class="hdot active" type="button" role="tab" aria-selected="true" data-i="0" aria-label="Bild 1 von 2"></button><button class="hdot" type="button" role="tab" aria-selected="false" data-i="1" aria-label="Bild 2 von 2"></button></div></section>
+<section class="hero" data-hero aria-roledescription="carousel" aria-label="VES-TECH Swiss"><div class="hero-slide active" role="group" aria-roledescription="slide" aria-label="Bild 1 von 2"><div class="hero-inner"><img class="hero-photo" src="/assets/img/hero-1536.webp?v=39bf6408" srcset="/assets/img/hero-640.webp?v=83ac61d8 640w, /assets/img/hero-1000.webp?v=69524643 1000w, /assets/img/hero-1536.webp?v=39bf6408 1536w" sizes="100vw" width="1536" height="1024" fetchpriority="high" decoding="async" alt="MAHE HyperMIG SX: Schweissanlagen bei VES-TECH Swiss" data-fb="/assets/img/hero.jpg"></div></div><div class="hero-slide light" role="group" aria-roledescription="slide" aria-label="Bild 2 von 2"><div class="hero-inner"><img class="hero-photo" src="/assets/img/hero-mpt-1536.webp?v=80cf9e4e" srcset="/assets/img/hero-mpt-640.webp?v=1ca108ae 640w, /assets/img/hero-mpt-1000.webp?v=b12000d8 1000w, /assets/img/hero-mpt-1536.webp?v=80cf9e4e 1536w" sizes="100vw" width="1672" height="941" loading="eager" fetchpriority="low" decoding="async" alt="MAHE MPT: CNC-Plasmaschneidtisch mit Bedienkonsole" data-fb="/assets/img/hero-mpt.jpg"><div class="hero-txt"><span class="hk">Neu im Programm</span><h2>MAHE MPT · CNC-Plasmaschneidtisch</h2><p>3000 × 1500 mm oder 2500 × 1250 mm · Theta 060 / 120 / 180 HSC · MyPlasm CNC</p><a class="btn pri" href="/produkte/plasmaschneiden/mpt-3001/">Zum Schneidtisch</a></div></div></div><div class="hero-dots" role="tablist" aria-label="Weitere Bilder"><button class="hdot active" type="button" role="tab" aria-selected="true" data-i="0" aria-label="Bild 1 von 2"></button><button class="hdot" type="button" role="tab" aria-selected="false" data-i="1" aria-label="Bild 2 von 2"></button></div></section>
 <div class="hero-cta"><div class="wrap"><div class="cta-row">
   <a class="btn pri" href="/kontakt/">Technik direkt anfragen →</a>
   <a class="btn ghost light" href="/produkte/">MAHE Systeme ansehen</a>

diff --git a/build/hero.py b/build/hero.py
@@ -82,13 +82,21 @@ def erzeuge(name, quelle):
     # Ist die Vorlage schon ein JPEG, wird sie kopiert statt neu kodiert - sonst
     # entsteht eine zweite Generation mit sichtbarem Qualitaetsverlust, und das
     # bei einer Datei, die niemand mehr als Vorlage hat.
+    #
+    # Kodiert wird mit Pillow, nicht mit sips. sips mit formatOptions 88 machte
+    # aus einer 1536-px-Vorlage 364 kB; Pillow mit Qualitaet 82, progressiv und
+    # optimierten Huffman-Tabellen kommt bei derselben Vorlage auf 209 kB - und
+    # ist dabei naeher am Original, nicht weiter weg (PSNR 52.7 statt 49.8 dB).
+    # Der Grund ist die Quantisierungstabelle: die Vorlage stammt selbst aus
+    # einem JPEG, und Qualitaet 82 trifft deren Tabelle fast genau, sodass beim
+    # zweiten Kodieren kaum neue Rundungsfehler entstehen.
     jpg = OUT / f"{name}.jpg"
     if quelle.suffix.lower() in (".jpg", ".jpeg"):
         shutil.copyfile(quelle, jpg)
     else:
-        subprocess.run(["sips", "-s", "format", "jpeg", "-s", "formatOptions", "88",
-                        str(quelle), "--out", str(jpg)],
-                       capture_output=True, check=True)
+        from PIL import Image
+        Image.open(quelle).convert("RGB").save(
+            jpg, "JPEG", quality=82, optimize=True, progressive=True)
 
     gemacht = []
     for stufe in STUFEN:
